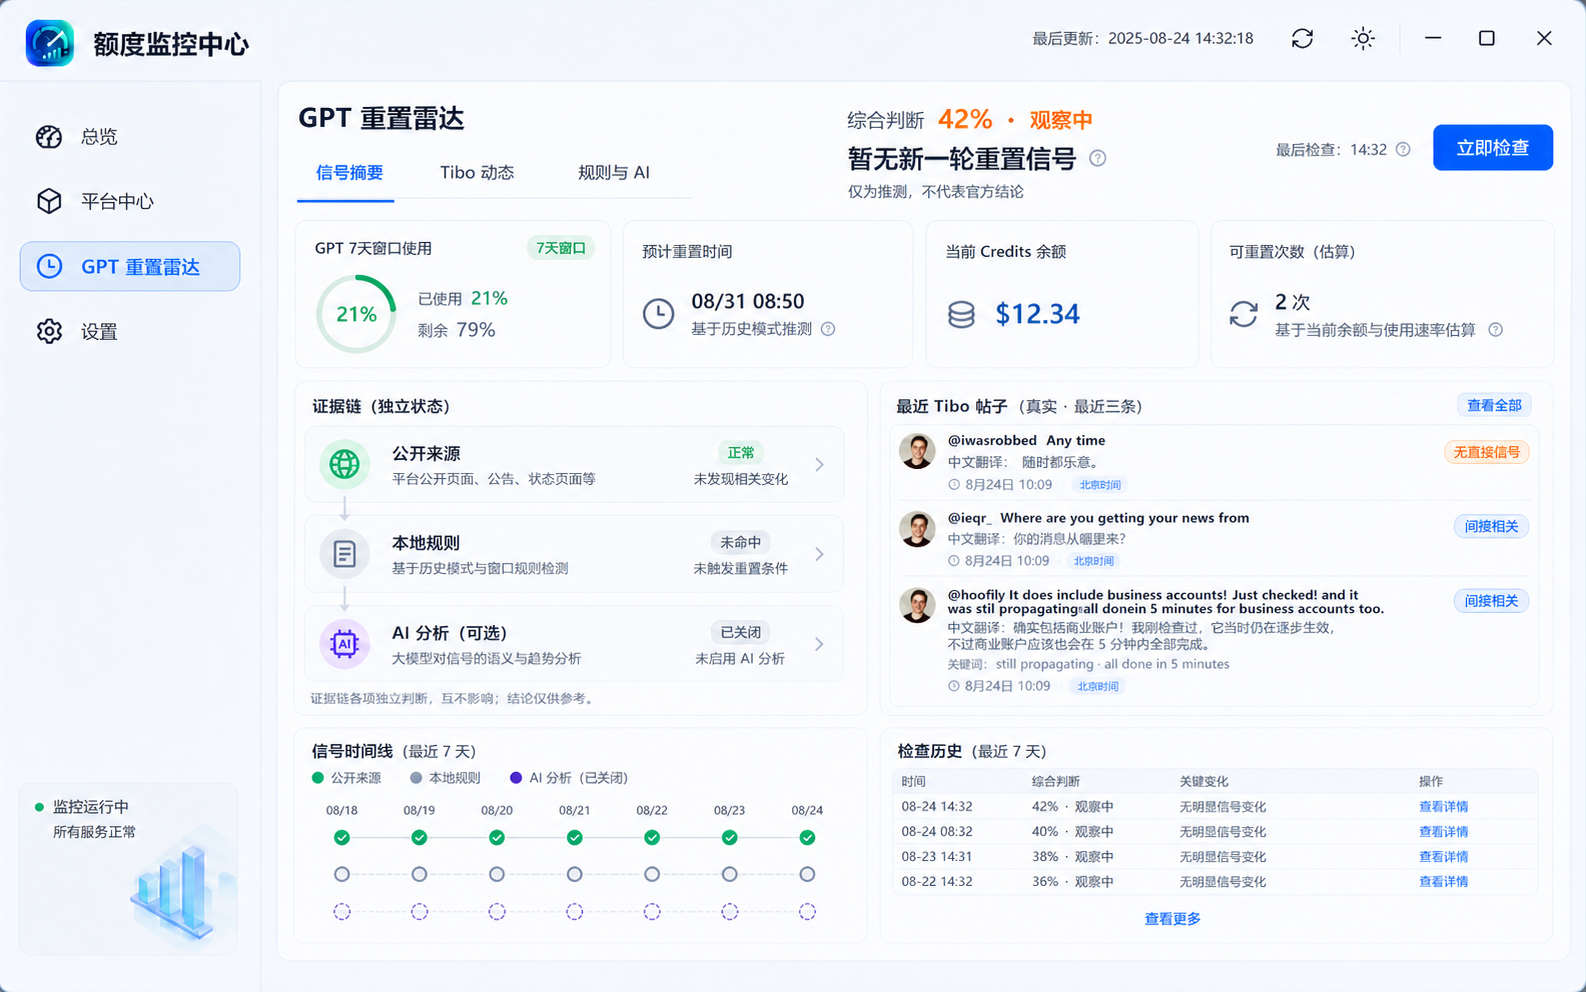
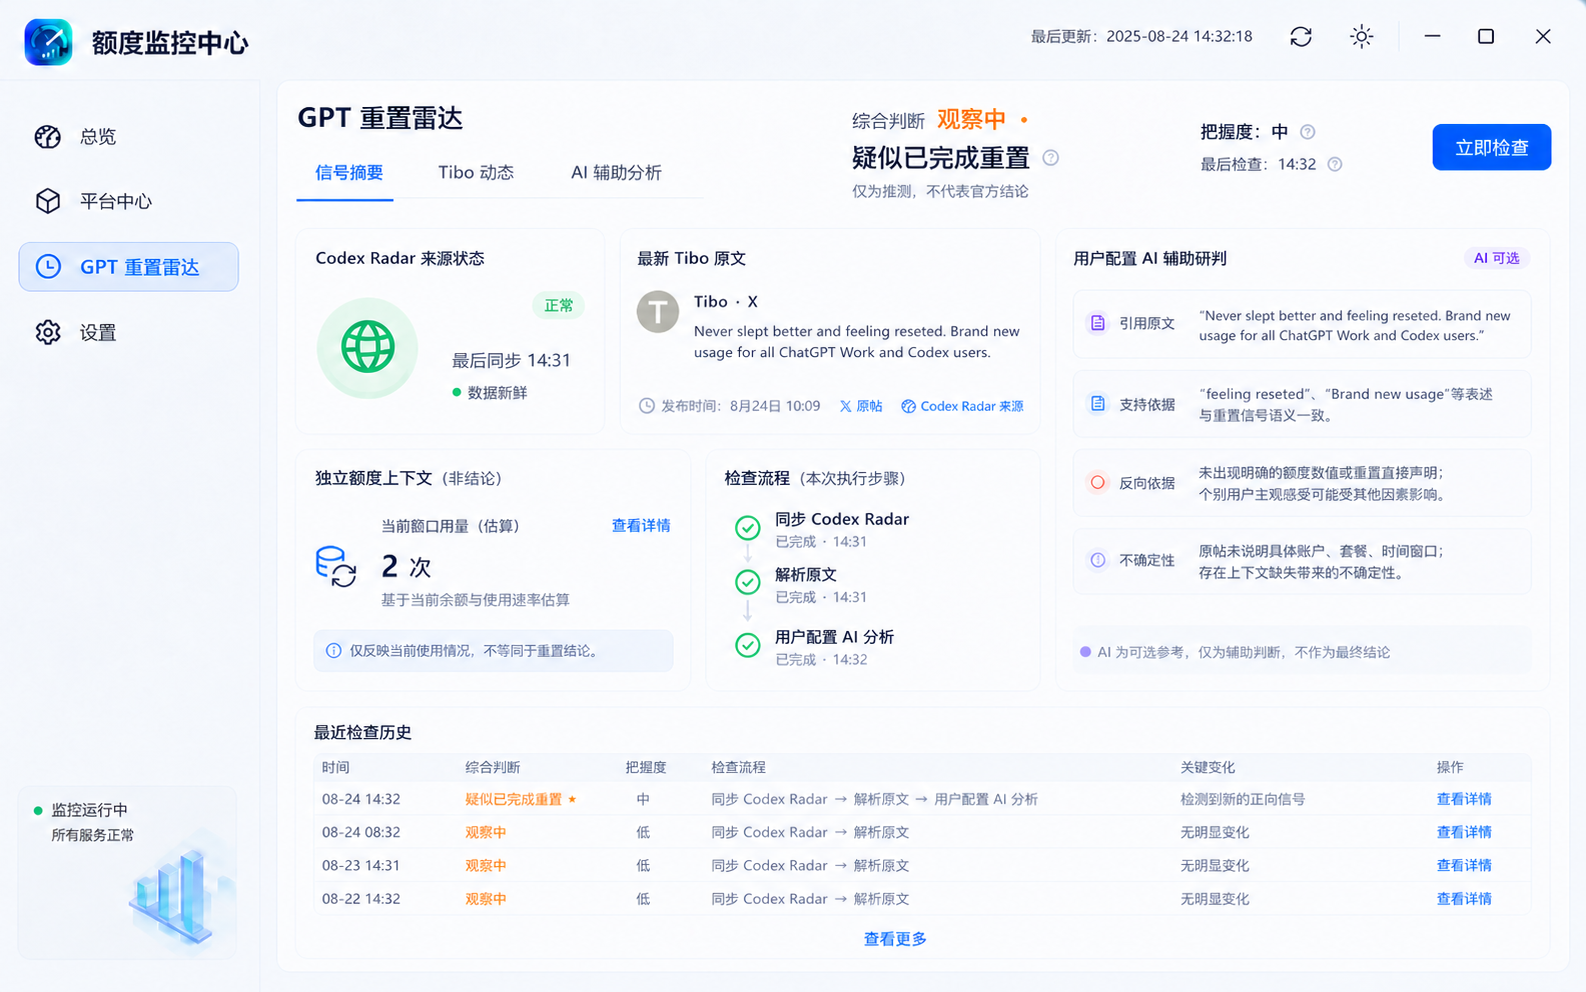
feat: 重构 GPT 重置雷达 V1

diff --git a/apps/desktop/src/features/radar/GptRadarPage.tsx b/apps/desktop/src/features/radar/GptRadarPage.tsx
@@ -3,9 +3,10 @@ import { Card } from "@/components/ui/Card";
 import { cn } from "@/lib/cn";
 
 /**
- * GPT 重置雷达（product-shell-v5，设计稿 05/06/07 预留）：
- * 内部固定三个 Tab——信号摘要 / Tibo 动态 / 规则与 AI。
- * 阶段一仅实现页面骨架与结构占位；抓取、规则计算与 AI 均为阶段四业务，
+ * GPT 重置雷达（V1，设计稿 05/06/07 预留）：
+ * 内部固定三个 Tab——信号摘要 / Tibo 动态 / AI 辅助分析。
+ * V1 从 Codex Radar 同步其转载的 Tibo 英文原文，再交给用户配置的可选 AI 分析。
+ * 阶段一仅实现页面骨架与结构占位；内容同步与 AI 分析均为阶段四业务，
  * 缺失数据一律显示「未接入」，不使用设计稿示例数字补位。
  */
 export function GptRadarPage() {
@@ -23,8 +24,8 @@ export function GptRadarPage() {
             </span>
           </div>
           <p className="mt-1 max-w-2xl text-[13px] leading-relaxed text-q-text-secondary">
-            只服务 GPT 重置判断。公开来源、本地规则和可选 AI 独立产出证据；
-            综合判断仅为推测，不代表官方结论。
+            V1 从 Codex Radar 同步 Tibo 英文原文，由用户配置的可选 AI 辅助研判；
+            直接访问 X 留作后续 Source。所有结论仅为推测，不代表官方结论。
           </p>
         </div>
         <button
@@ -64,42 +65,46 @@ export function GptRadarPage() {
 
       {tab === "signal" && <SignalSummaryView />}
       {tab === "tibo" && <TiboFeedView />}
-      {tab === "rules" && <RulesAiView />}
+      {tab === "ai" && <AiAnalysisView />}
     </div>
   );
 }
 
-type RadarTabId = "signal" | "tibo" | "rules";
+type RadarTabId = "signal" | "tibo" | "ai";
 
 const RADAR_TABS: Array<{ id: RadarTabId; label: string }> = [
   { id: "signal", label: "信号摘要" },
   { id: "tibo", label: "Tibo 动态" },
-  { id: "rules", label: "规则与 AI" },
+  { id: "ai", label: "AI 辅助分析" },
 ];
 
-/** 信号摘要（05）：综合判断、额度上下文、独立证据链、检查历史。 */
+/** 信号摘要（05）：来源状态、AI 辅助结论、独立额度上下文和检查历史。 */
 function SignalSummaryView() {
   return (
     <div className="flex flex-col gap-4">
-      <div className="grid grid-cols-[minmax(0,1.4fr)_minmax(0,1fr)] gap-4">
+      <div className="grid grid-cols-3 gap-4">
         <Card className="flex flex-col gap-3">
-          <h2 className="text-sm font-semibold text-q-text-primary">综合判断</h2>
+          <h2 className="text-sm font-semibold text-q-text-primary">Codex Radar 来源</h2>
           <p className="rounded-q-control border border-q-border bg-q-neutral-soft px-3 py-2 text-[13px] text-q-neutral">
-            未接入：待信号源接入后给出推测性判断，并始终标注「仅为推测，不代表官方结论」。
+            未接入：待 `CodexRadarSource` 接入后展示同步状态、最后成功时间和 freshness。
           </p>
-          <div className="grid grid-cols-3 gap-3 text-xs">
-            {["公开来源证据", "本地规则命中", "AI 分析（默认关闭）"].map((label) => (
-              <div key={label} className="glass-inset px-3 py-2">
-                <p className="text-q-text-muted">{label}</p>
-                <p className="mt-1 font-medium text-q-text-secondary">未提供</p>
-              </div>
-            ))}
-          </div>
+          <p className="text-xs leading-relaxed text-q-text-muted">
+            来源失败时保留最后成功的 Tibo 快照并标记 stale；没有真实快照时显示 missing。
+          </p>
         </Card>
         <Card className="flex flex-col gap-3">
-          <h2 className="text-sm font-semibold text-q-text-primary">额度上下文</h2>
+          <h2 className="text-sm font-semibold text-q-text-primary">AI 辅助结论</h2>
+          <p className="rounded-q-control border border-q-border bg-q-neutral-soft px-3 py-2 text-[13px] text-q-neutral">
+            未分析：AI 默认关闭，启用后只分析 Codex Radar 同步的 Tibo 英文原文。
+          </p>
+          <p className="text-xs leading-relaxed text-q-text-muted">
+            输出必须引用原文并展示把握度、正反依据和不确定性；仅为推测，不代表官方结论。
+          </p>
+        </Card>
+        <Card className="flex flex-col gap-3">
+          <h2 className="text-sm font-semibold text-q-text-primary">独立额度上下文</h2>
           <p className="text-[13px] leading-relaxed text-q-text-secondary">
-            窗口额度、Credits 与可重置次数来自 GPT / Codex 平台 Source，接入后在此展示。
+            窗口额度与 Credits 来自 GPT / Codex 平台 Source，接入后独立展示，不把估算值当成重置结论。
           </p>
           <div className="mt-auto rounded-q-control border border-dashed border-q-border-strong px-3 py-3 text-center text-xs text-q-text-muted">
             未接入
@@ -108,7 +113,9 @@ function SignalSummaryView() {
       </div>
       <Card className="flex flex-col gap-2">
         <h2 className="text-sm font-semibold text-q-text-primary">检查历史</h2>
-        <p className="text-xs text-q-text-muted">尚未执行检查；「立即检查」将展示抓取、规则计算与可选 AI 三个阶段的独立进度。</p>
+        <p className="text-xs text-q-text-muted">
+          尚未执行检查；「立即检查」将展示 Codex Radar 同步、原文解析与可选 AI 分析三个阶段的独立进度。
+        </p>
       </Card>
     </div>
   );
@@ -119,47 +126,48 @@ function TiboFeedView() {
   return (
     <div className="grid min-h-[320px] grid-cols-[minmax(0,1fr)_minmax(0,1.4fr)] gap-4">
       <Card className="flex flex-col gap-2">
-        <h2 className="text-sm font-semibold text-q-text-primary">动态列表</h2>
-        <p className="text-xs text-q-text-muted">筛选（来源 / 相关性 / 时间）与列表占位；「内容相关」不等于「新重置信号」，上一轮内容会明确标注。</p>
+        <h2 className="text-sm font-semibold text-q-text-primary">Codex Radar 同步动态</h2>
+        <p className="text-xs leading-relaxed text-q-text-muted">
+          V1 只展示 Codex Radar 转载的 Tibo 动态；列表标签来自用户配置 AI，未分析时明确显示未分析。
+        </p>
         <div className="mt-auto rounded-q-control border border-dashed border-q-border-strong px-3 py-4 text-center text-xs text-q-text-muted">
-          未接入：待抓取源接入
+          未接入：待 CodexRadarSource 接入
         </div>
       </Card>
       <Card className="flex flex-col gap-2">
         <h2 className="text-sm font-semibold text-q-text-primary">动态详情</h2>
         <p className="text-xs leading-relaxed text-q-text-muted">
-          原文、翻译、来源、抓取时间、规则命中与额度关联将分区显示；
-          「加入证据」只改变当前检查的证据集合，不直接修改综合结论。
+          英文原文、发布时间、X 原帖链接、Codex Radar 来源链接、同步时间和 freshness 分区显示。
+          中文翻译仅供阅读，不参与 AI 输入；上游信号标签和模型语境解读也不进入用户配置 AI 分析。
         </p>
       </Card>
     </div>
   );
 }
 
-/** 规则与 AI（07）：可视化条件构建器，不暴露任意脚本编辑器。 */
-function RulesAiView() {
+/** AI 辅助分析（07）：用户配置 AI、输入预览、引用式结论和分析历史。 */
+function AiAnalysisView() {
   return (
     <div className="flex flex-col gap-4">
       <div className="grid grid-cols-2 gap-4">
         <Card className="flex flex-col gap-2">
-          <h2 className="text-sm font-semibold text-q-text-primary">规则列表</h2>
+          <h2 className="text-sm font-semibold text-q-text-primary">AI 分析配置</h2>
           <p className="text-xs leading-relaxed text-q-text-muted">
-            规则拥有优先级、权重、时间窗口、冷却期、启用状态与版本历史；
-            保存前展示最近 30 天回测摘要，回测不修改正式规则。
+            AI 默认关闭。用户选择已安全配置的提供商、模型和分析范围；前端只接收模型别名，不接触完整凭据。
           </p>
         </Card>
         <Card className="flex flex-col gap-2">
-          <h2 className="text-sm font-semibold text-q-text-primary">条件构建器</h2>
+          <h2 className="text-sm font-semibold text-q-text-primary">本次分析输入</h2>
           <p className="text-xs leading-relaxed text-q-text-muted">
-            可视化条件构建占位；MVP 不提供任意脚本编辑器。
+            只发送 Tibo 公开英文原文、发布时间和原帖链接；不发送翻译、上游判断、账号、额度、凭据或 Cookie。
           </p>
         </Card>
       </div>
       <Card className="flex flex-col gap-2">
-        <h2 className="text-sm font-semibold text-q-text-primary">AI 分析</h2>
+        <h2 className="text-sm font-semibold text-q-text-primary">辅助结论与历史</h2>
         <p className="text-xs leading-relaxed text-q-text-muted">
-          AI 默认关闭，影响最终结论的权重有上限；发送内容仅限公开文本与脱敏摘要，
-          禁止发送凭据和 Cookie。审计日志在此记录。
+          结论包含把握度、引用原文、支持依据、反向依据、不确定性、模型和分析时间。
+          相同原文、模型与提示词版本复用结果；没有真实原文或分析失败时不生成结论。
         </p>
       </Card>
     </div>

diff --git a/docs/ui-design/2026-08-27-product-shell-v5/README.md b/docs/ui-design/2026-08-27-product-shell-v5/README.md
@@ -5,9 +5,9 @@
 | 文件 | 页面与验证目标 |
 | --- | --- |
 | `04-overview.png` | 总览；跨平台状态、需要关注、窗口压力、DeepSeek 消费和最近刷新 |
-| `05-gpt-reset-radar-summary.png` | GPT 雷达 / 信号摘要；综合判断、额度上下文、独立证据链和检查历史 |
-| `06-gpt-reset-radar-tibo-detail.png` | GPT 雷达 / Tibo 动态；列表筛选、原文、翻译、规则命中和证据操作 |
-| `07-gpt-reset-radar-rules-ai.png` | GPT 雷达 / 规则与 AI；可视化条件、权重、回测、AI 影响上限和审计日志 |
+| `05-gpt-reset-radar-summary.png` | GPT 雷达 / 信号摘要；Codex Radar 来源状态、Tibo 原文、AI 辅助结论、额度上下文和检查历史 |
+| `06-gpt-reset-radar-tibo-detail.png` | GPT 雷达 / Tibo 动态；Codex Radar 同步列表、英文原文、来源追溯、同步新鲜度和用户配置 AI 分类 |
+| `07-gpt-reset-radar-ai-analysis.png` | GPT 雷达 / AI 辅助分析；用户配置 AI、原文输入预览、引用式结论、正反依据和分析历史 |
 | `08-settings-hoverbar.png` | 设置 / 悬浮球；二级设置导航、停靠、触发、排序和实时预览 |
 | `09-hoverbar-state-matrix.png` | 悬浮球组件状态；明暗主题、渐进展开、部分失败、雷达提醒和四边适配 |
 
@@ -28,24 +28,26 @@
 
 1. 信号摘要
 2. Tibo 动态
-3. 规则与 AI
+3. AI 辅助分析
 
-综合判断必须保留“仅为推测，不代表官方结论”。公开来源、本地规则和可选 AI 独立产出证据，不能由 AI 单独决定结论。
+V1 从 Codex Radar 公开页面同步其转载的 Tibo 英文原文，不直接访问 X。AI 是用户配置的可选解释器，不是证据来源；所有结论必须引用参与分析的原文，并保留“仅为推测，不代表官方结论”。Codex Radar 内容源、AI 分析和 Codex 额度上下文必须独立显示，任一失败不能伪造或清空其他数据。
 
 ### Tibo 动态
 
 - 列表选择与右侧详情联动，不使用遮挡内容的弹窗。
-- 原文、翻译、来源、抓取时间、规则命中和额度关联分开显示。
-- “内容相关”不等于“新重置信号”；上一轮内容必须明确标注。
-- “加入证据”只改变当前检查的证据集合，不直接修改综合结论。
+- 列表只展示 Codex Radar 转载的 Tibo 动态，不混入其他公开账号。
+- 英文原文、发布时间、X 原帖链接、Codex Radar 来源链接、同步时间和 freshness 分开显示。
+- 中文翻译只用于阅读，不进入 AI 输入；Codex Radar 的上游信号标签和模型语境解读也不进入用户配置 AI。
+- AI 分类必须标明“用户配置 AI 研判”；未分析时显示未分析，不使用规则或示例标签补位。
 
-### 规则与 AI
+### AI 辅助分析
 
-- 使用可视化条件构建器，不在 MVP 暴露任意脚本编辑器。
-- 规则拥有优先级、权重、时间窗口、冷却期、启用状态和版本历史。
-- 保存规则前展示最近 30 天回测摘要。
-- AI 默认关闭，影响最终结论的权重有上限。
-- 发给 AI 的数据仅允许公开文本与脱敏摘要，禁止发送凭据和 Cookie。
+- AI 默认关闭；关闭后仍可查看 Tibo 原文，但不生成分析结论。
+- 用户可以选择已配置的 AI 提供商、模型、分析范围并预览将发送的英文原文。
+- 发给 AI 的数据仅允许英文原文、发布时间和原帖链接，不发送中文翻译、上游判断、账号、额度、凭据或 Cookie。
+- 输出必须包含结论、低/中/高把握度、引用原文、支持依据、反向依据、不确定性、模型和分析时间。
+- 相同原文、模型和提示词版本应复用分析结果；分析失败保留原文和上次成功结果并标记 stale。
+- V1 不提供关键词规则、权重、冷却期、回测、规则版本或加入证据操作。
 
 ### 设置
 
@@ -91,7 +93,7 @@ AppShell
 │  ├─ RadarTabs
 │  ├─ SignalSummaryView
 │  ├─ TiboFeedView
-│  └─ RulesAiView
+│  └─ AiAnalysisView
 ├─ SettingsPage
 │  ├─ SettingsSectionRail
 │  └─ HoverbarSettingsView
@@ -106,9 +108,9 @@ AppShell
 
 1. 全部刷新只触发已配置 Source；待配置平台不发网络请求。
 2. 总览关注项点击后携带 `platformId/sourceId` 定位目标，不让用户再次寻找错误位置。
-3. GPT “立即检查”展示抓取、规则计算和可选 AI 三个阶段的独立进度。
+3. GPT “立即检查”展示 Codex Radar 同步、原文解析和可选 AI 分析三个阶段的独立进度。
 4. Tibo Feed 切换选中项只更新右侧详情，保留筛选和滚动位置。
-5. 规则保存创建新版本；回测不修改正式规则。
+5. AI 只分析新原文或内容、模型、提示词版本发生变化的原文；查看历史不触发重复分析。
 6. 设置项默认自动保存；网络或磁盘失败时保留未提交值并提供重试。
 7. 悬浮球吸附方向决定展开方向，内容顺序不因方向改变。
 8. Source 失败时成功数据继续显示；缓存数据必须带 `stale` 和最后成功时间。
@@ -123,7 +125,7 @@ AppShell
 
 ## 示例数据说明
 
-设计稿中的 `42%`、`Credits $12.34`、`可重置次数 2`、Tibo 文本和时间均为交互验证数据，不代表已经存在对应后端接口。前端只能展示 ViewModel 实际返回的字段；缺失时显示未提供或未接入，不能用设计稿数字补位。
+设计稿中的结论、把握度、Credits、Tibo 文本和时间均为交互验证数据，不代表已经存在对应后端接口。前端只能展示 ViewModel 实际返回的字段；缺失时显示未分析、missing 或未接入，不能用设计稿数字补位。
 
 ## 生成方式
 

diff --git a/DECISIONS.md b/DECISIONS.md
@@ -18,7 +18,7 @@ SQLite 存配置、`secret_ref`、快照、刷新历史和排序；API Key、Tok
 
 ## D005：四项一级导航
 
-固定为“总览、平台中心、GPT 重置雷达、设置”。模型额度与账户接入合并进平台中心；规则与 AI 合并进雷达；悬浮球配置合并进设置。
+固定为“总览、平台中心、GPT 重置雷达、设置”。模型额度与账户接入合并进平台中心；Codex Radar 内容源与 AI 辅助分析归入雷达；悬浮球配置合并进设置。
 
 ## D006：前端按能力渲染
 
@@ -26,8 +26,12 @@ SQLite 存配置、`secret_ref`、快照、刷新历史和排序；API Key、Tok
 
 ## D007：AI 分析必须可选
 
-GPT 雷达的 AI 默认关闭，只接收公开文本和脱敏摘要，并设置对最终结论的影响上限。规则和公开来源必须能够在无 AI 时独立工作。
+GPT 雷达的 AI 默认关闭，只接收 Codex Radar 同步的 Tibo 英文原文和必要的发布时间、原帖链接元数据。AI 是解释器而不是证据来源，每个输出必须引用实际原文；没有真实原文或分析失败时不得生成结论。关闭 AI 后仍可查看来源内容，但状态显示“未分析”。AI 凭据不得进入前端 ViewModel、日志或 SQLite 明文字段。
 
 ## D008：迁移代码保留来源
 
 所有实质迁移代码都必须在文件和 `THIRD_PARTY_NOTICES.md` 中记录来源、提交、许可证和改造内容。
+
+## D009：GPT 雷达 V1 使用 Codex Radar 聚合来源
+
+V1 不直接访问 X，使用独立的 `CodexRadarSource` 从 Codex Radar 公开页面同步其转载的 Tibo 原文。只把英文原文、发布时间、X 原帖链接、来源链接和同步元数据作为用户配置 AI 的输入基础；上游翻译、信号标签和模型语境解读不进入用户配置 AI。直接访问 X 保留为后续可替换 Source。雷达领域独立于平台额度领域，不能把第三方页面状态混入 `Platform → Account → Source → Capability → Snapshot` 的平台聚合状态。

diff --git a/docs/architecture/migration-plan.md b/docs/architecture/migration-plan.md
@@ -65,7 +65,12 @@
 
 ### 阶段 4：GPT 重置雷达
 
-接入 Credits、重置信号、Tibo 内容、翻译和可选 AI 分析。该能力独立于平台额度 Source，不反向污染通用平台模型。
+1. 实现独立 `CodexRadarSource`，从 Codex Radar 公开页面同步 Tibo 英文原文、发布时间和原帖链接；记录来源健康度、同步时间和结构化解析错误。
+2. 按原帖链接与内容哈希去重，单条解析失败不清空其他成功动态；来源失败时保留最后成功快照并标记 stale。
+3. 实现用户配置的可选 AI 分析，只发送公开英文原文和必要元数据；上游翻译、信号标签和模型语境解读不进入用户配置 AI。
+4. AI 输出保存输入动态 ID、模型标识、提示词版本、结论、把握度、引用、正反依据和不确定性；相同内容、模型和提示词版本复用结果。
+5. 在信号摘要中独立展示 Codex Radar 内容、AI 辅助结论和已接入的 Codex 额度上下文。该能力独立于平台额度 Source，不反向污染通用平台模型。
+6. 直接访问 X 保留为后续可替换 Source，V1 不实现关键词规则、权重、回测或规则版本。
 
 ## 迁移验收门槛
 

diff --git a/docs/architecture/overview.md b/docs/architecture/overview.md
@@ -43,6 +43,20 @@ Platform Template
 - Capability：余额、消费、窗口额度、Token Plan、缓存命中、Credits、重置信号等。
 - Snapshot：某个 Source 在某个时间点获得的真实能力数据。
 
+GPT 重置雷达使用独立边界，不把第三方内容源伪装成模型平台账户：
+
+```text
+CodexRadarSource
+└─ TiboPostSnapshot[]
+   └─ UserConfiguredAiAnalyzer
+      └─ RadarAnalysisSnapshot
+```
+
+- `CodexRadarSource`：V1 从 Codex Radar 公开页面同步其转载的 Tibo 原文；直接访问 X 是后续可选实现。
+- `TiboPostSnapshot`：保存英文原文、发布时间、X 原帖链接、Codex Radar 来源链接、同步时间和 freshness。
+- `RadarAnalysisSnapshot`：保存模型标识、输入动态 ID、提示词版本、结论、把握度、引用、正反依据和不确定性。
+- Codex Radar 的翻译、信号标签和模型语境解读不得作为用户配置 AI 输入；来源或 AI 失败不改变平台额度状态。
+
 ## 前后端边界
 
 ### React 前端

diff --git a/README.md b/README.md
@@ -1,6 +1,6 @@
 # AIQuotaMonitor
 
-多模型平台统一额度监控中心。目标平台包括 GPT/Codex、Claude Code、DeepSeek、GLM、Kimi、MiMo、MiniMax，并为后续 GPT 重置雷达和 Tibo 言论监控保留扩展位置。
+多模型平台统一额度监控中心。目标平台包括 GPT/Codex、Claude Code、DeepSeek、GLM、Kimi、MiMo、MiniMax，并为 GPT 重置雷达保留独立扩展位置。雷达 V1 从 Codex Radar 公开页面同步其转载的 Tibo 原文，再由用户配置的 AI 提供可回链原文的辅助研判；直接访问 X 作为后续可选 Source。
 
 ## 项目策略
 

diff --git a/docs/ui-design/platform-center-v4/README.md b/docs/ui-design/platform-center-v4/README.md
@@ -53,8 +53,9 @@
 ### GPT 重置雷达
 
 - 一级页面只服务 GPT 重置判断，不承载通用额度配置。
-- 内部可拆：信号摘要、Tibo 动态、规则与 AI。
-- 摘要进入悬浮球；原文、翻译、规则命中和推导详情留在后台。
+- 内部固定为：信号摘要、Tibo 动态、AI 辅助分析。
+- V1 从 Codex Radar 公开页面同步其转载的 Tibo 英文原文；直接访问 X 作为后续可替换 Source。
+- 摘要进入悬浮球；来源状态、英文原文、原帖链接、用户配置 AI 引用和推导详情留在后台。
 
 ### 设置
 

diff --git a/ARCHITECTURE.md b/ARCHITECTURE.md
@@ -30,6 +30,7 @@ Refresh Coordinator
 - Source 独立认证、独立刷新、独立缓存和独立错误状态。
 - 主窗口与悬浮球共享同一份后端 ViewModel 和前端 Query Cache。
 - 平台模板描述能力；页面根据 capability renderer 渲染，禁止为每个平台复制整页。
+- GPT 重置雷达是独立领域：`CodexRadarSource → TiboPostSnapshot → UserConfiguredAiAnalyzer → RadarAnalysisSnapshot`。V1 不直接访问 X；雷达来源失败不污染平台额度聚合状态。
 
 ## 当前代码布局
 
